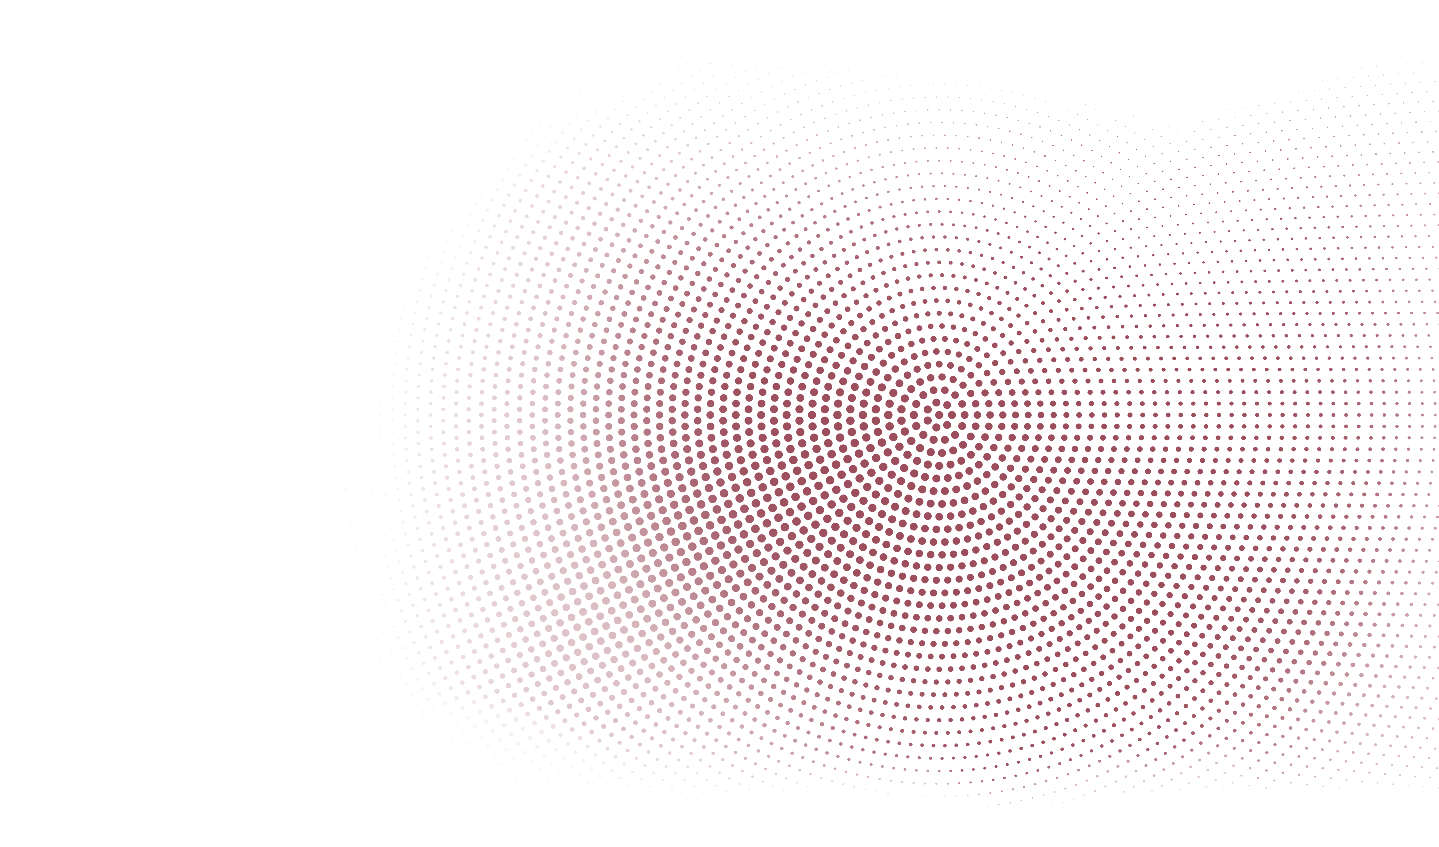
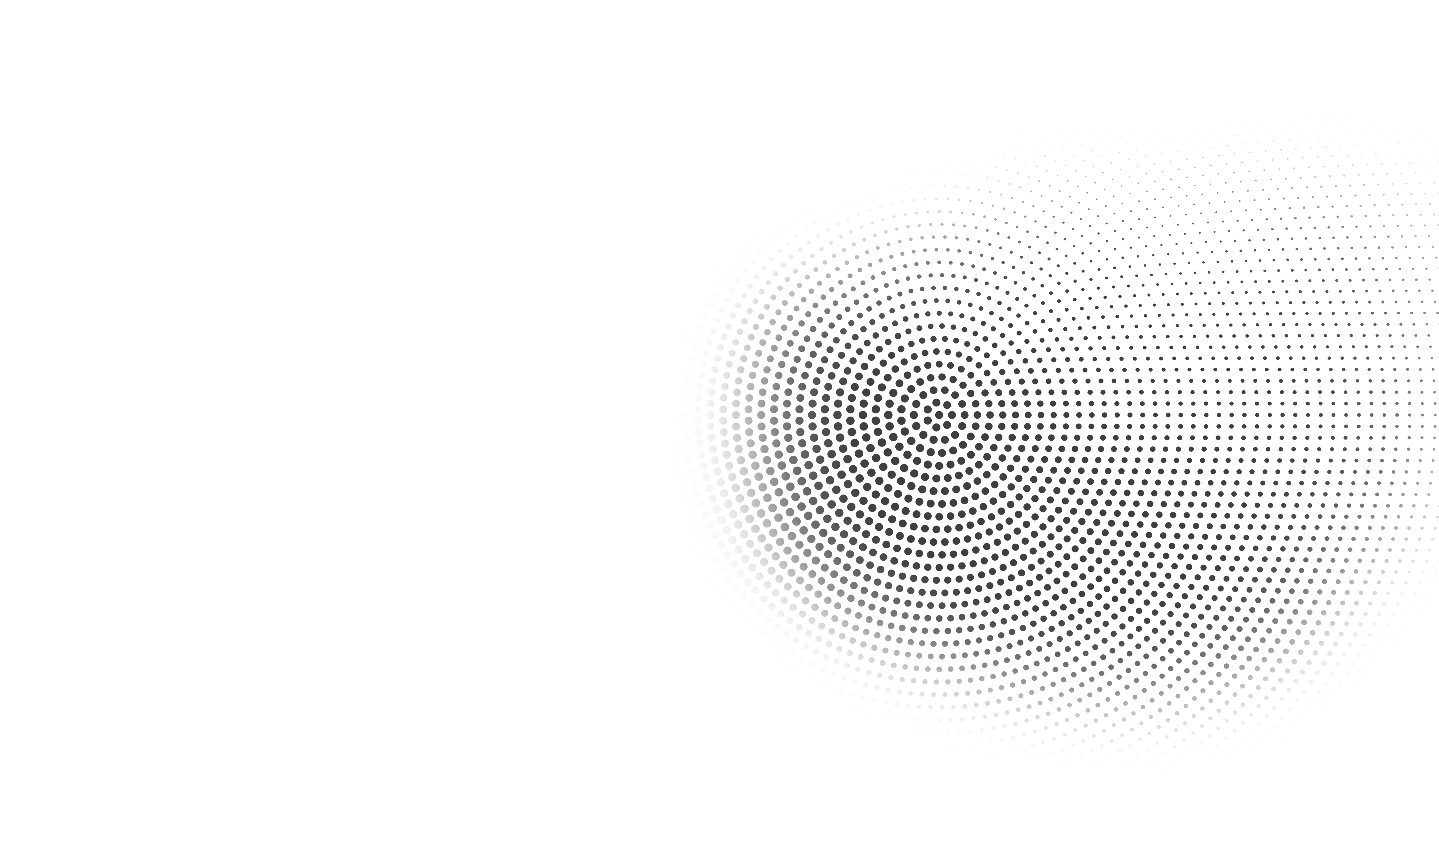
Still working on homepage, make some little adjustment, and added particles effect that modify on hover.

Changed region(s): [[0.3058, 0.2456, 0.9785, 0.8595]]

diff --git a/components/ParticlesContainer.js b/components/ParticlesContainer.js
@@ -1,5 +1,99 @@
+import {Particles} from 'react-tsparticles';
+import {loadFull} from 'tsparticles';
+import React, { useCallback } from 'react';
+
 const ParticlesContainer = () => {
-  return <div>Particles Container</div>;
+  // init 
+  const particlesInit = useCallback(async (engine) => {
+    await loadFull(engine);
+  }, []);
+
+const particlesLoaded = useCallback(async () => {}, []);
+
+  return(
+    <Particles 
+    className='w-full h-full absolute translate-z-0'
+      id='tsparticles' 
+      init={particlesInit} 
+      loaded={particlesLoaded} 
+      options={{
+        fullscreen: {enable: false},
+        background: {
+          color: {
+            value: ''
+          },
+        },
+        fpslimit: 120,
+        interactivity: {
+          events: {
+            onClick: {
+              enable: false,
+              mode: 'push',
+            },
+            onHover: {
+              enable: true,
+              mode: 'repulse',
+            },
+            resize: true,
+          },
+          modes: {
+            push: {
+              quantity: 90
+            },
+            repulse: {
+              distance: 200,
+              duration: 0.4,
+            }
+          }
+        },
+        particles: {
+          color:{
+            value: '#e68e2e',
+          },
+          links: {
+            color: '#f5d393',
+            distance: 150,
+            enable: true,
+            opacity: 0.5,
+            width: 1
+          },
+          collisions: {
+            enable: true, 
+          },
+          move: {
+            directions: 'none',
+            enable: true,
+            outModes: {
+              default: 'bounce'
+            },
+            random: false,
+            speed: 1,
+            straight: false
+          },
+          number: {
+            density: {
+              enable: true,
+              area: 800
+            },
+            value: 80
+          },
+          opacity: {
+            value: 0.5,
+          },
+          shape: {
+            type: 'circle'
+          },
+          size: {
+            value: {min: 1, max: 5}
+          },
+          detectRetina: true,
+
+        }
+      }}  
+  />
+ )
+
+  
 };
 
 export default ParticlesContainer;

diff --git a/pages/index.js b/pages/index.js
@@ -14,9 +14,9 @@ import {fadeIn} from '../variants'
 
 const Home = () => {
   return (
-  <div className="bg-primary/60 h-full )">
+  <div className="bg-primary/100 h-full )">
   {/* text */}
-    <div className="w-full h-full bg-gradient-to-r from-primary/10 via-black/30 to-black/10">
+    <div className="w-full h-full bg-gradient-to-r from-primary/100 to-primary/80">
       <div className="text-center flex flex-col justify-center xl:pt-40 xl:text-left h-full container mx-auto">
         {/*title*/}
         <motion.h1 
@@ -24,9 +24,10 @@ const Home = () => {
           initial="hidden" 
           animate="show" 
           exit="hidden"
-          className="h1"
+          className="h1 text-grey"
         >
-          Transforming Ideas <br /> Into <span className="text-accent">Digital Reality</span> 
+          
+        My journey in to <br />the <span className="text-accent">Front-End</span> field. 
         </motion.h1>
         {/* subtitle */}
         <motion.p 
@@ -34,7 +35,7 @@ const Home = () => {
           initial="hidden" 
           animate="show" 
           exit="hidden"
-          className="max-w-sm xl:max-w-xl mx-auto xl:mx-0 mb-10 xl:mb-16"
+          className="max-w-sm xl:max-w-xl mx-auto xl:mx-0 mb-10 xl:mb-16 text-grey "
         >
           Lorem ipsum dolor sit amet consectetur adipisicing elit. Itaque
           nostrum quam reprehenderit vero, tenetur voluptatem nulla aut
@@ -58,9 +59,9 @@ const Home = () => {
       {/* image */}
       <div className="w-[1200px] h-full absolute right-0 bottom-0">
         {/* bg image */}
-        <div className="bg-none xl:bg-explosion xl:bg-cover xl:bg-right xl:bg-no-repeat w-full h-full absolute mix-blend-color-dodge translate-z-0"></div>
+        <div className="bg-none xl:bg-explosion xl:bg-cover xl:bg-right xl:bg-no-repeat w-full h-full absolute  translate-z-0"></div>
         {/* particles */}
-        <div>Particles</div>
+        <ParticlesContainer />
         {/* avatar img */}
         <motion.div 
           variants={fadeIn('up', 0.5)}

diff --git a/components/Header.js b/components/Header.js
@@ -1,5 +1,35 @@
+// next image
+import Image from "next/image";
+
+// next link
+import Link from "next/link";
+
+// components
+import Socials from '../components/Socials';
+
 const Header = () => {
-  return <header className="absolute z-30 w-full">Header</header>;
+  return (
+    <header className="absolute z-30 w-full flex items-center px-16 xl:px-0 xl:h-[90px]"> 
+      <div className="container mx-auto">
+        <div className="flex flex-col lg:flex-row justify-between items-center gap-y-6 py-8">
+          {/* logo */}
+          <Link href={'/'}>
+            <Image 
+              src={'/logo.svg'} 
+              width={220} 
+              height={48} 
+              alt='' 
+              priority={true}
+            />
+          </Link>
+          {/* socials */}
+          <Socials />
+        </div>
+      </div>
+    </header>
+
+  )
+
 };
 
 export default Header;

diff --git a/components/Socials.js b/components/Socials.js
@@ -1,5 +1,31 @@
+// links
+import Link from "next/link";
+
+// icons
+import {RiInstagramLine, 
+        RiBehanceLine, 
+        RiGithubLine, 
+        RiLinkedinLine
+      } from 'react-icons/ri'
+
 const Socials = () => {
-  return <div>Socials</div>;
-};
+  return (
+  <div className="flex item-center gap-x-5 text-lg">
+    <Link href={''} className="hover:text-accent transition-all duration-300">
+      <RiInstagramLine />
+    </Link>
+    <Link href={''} className="hover:text-accent transition-all duration-300">
+      <RiBehanceLine/>
+    </Link>
+    <Link href={''} className="hover:text-accent transition-all duration-300">
+      <RiGithubLine />
+    </Link>
+    <Link href={''} className="hover:text-accent transition-all duration-300">
+      <RiLinkedinLine />
+    </Link>
+  </div>
+  )
+}
+
 
 export default Socials;

diff --git a/components/TopLeftImg.js b/components/TopLeftImg.js
@@ -4,9 +4,9 @@ import Image from "next/image";
 const TopLeftImg = () => {
   return (
     <div 
-      className="absolute left-0 top-0 mix-blend-color-dodge z-10 w-[200px] xl:w-[400px] opacity-50"
+      className="absolute left-0 top-0  z-10 w-[200px] xl:w-[400px] opacity-80"
     > 
-      <Image src="/top-left-img.png" width={400} height={400}  alt='' />
+      <Image src="/top-left.png" width={400} height={400}  alt='' />
     </div>
     );
 };

diff --git a/tailwind.config.js b/tailwind.config.js
@@ -22,9 +22,10 @@ module.exports = {
     },
     extend: {
       colors: {
-        primary: '#131424',
+        primary: '#1d1d1d',
         secondary: '#393A47',
-        accent: '#F13024',
+        accent: '#f17e41',
+        grey: '#efe7dc',
       },
       backgroundImage: {
         explosion: 'url("/bg-explosion.png")',

diff --git a/components/Avatar.js b/components/Avatar.js
@@ -4,7 +4,7 @@ import Image from "next/image";
 const Avatar = () => {
   return <div className="hidden xl:flex xl:max-w-none">
   <Image 
-    src={'/ava.png'} 
+    src={'/avata.png'} 
     width={737} 
     height={678} 
     alt='' 
